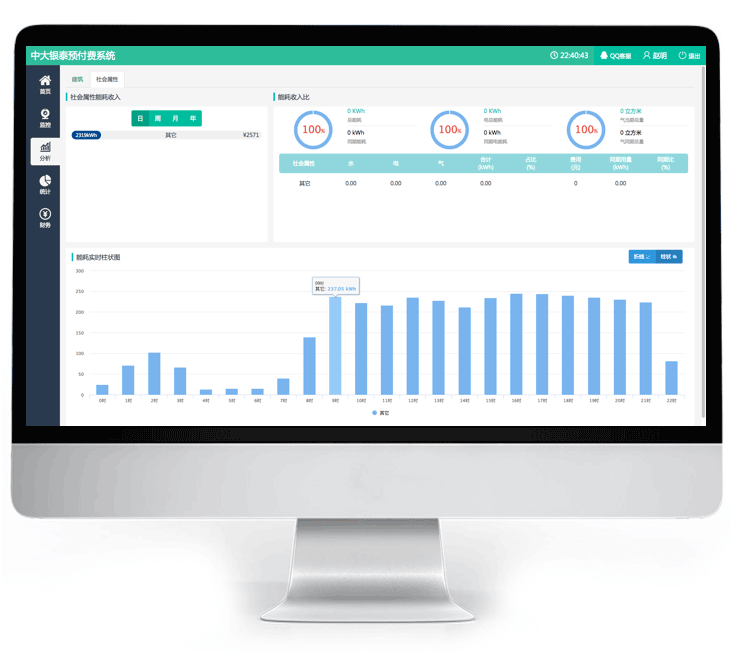
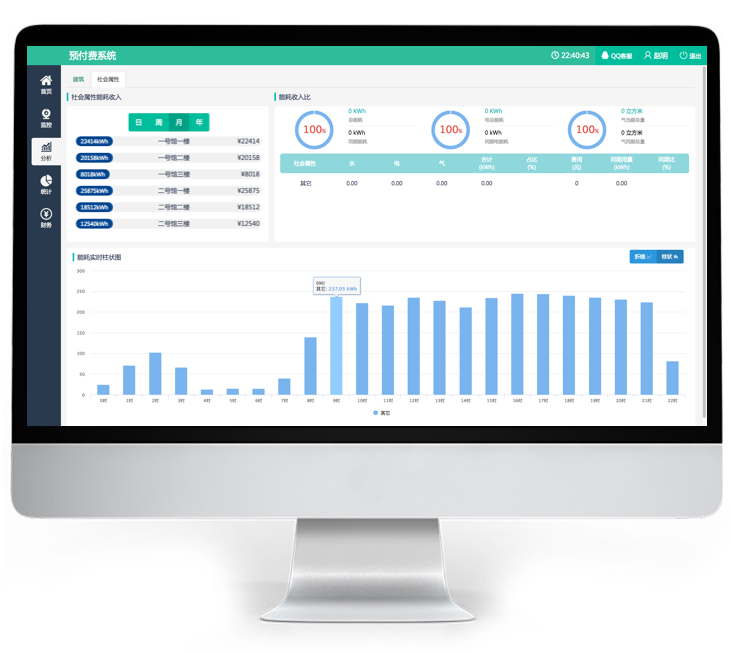
更换中大银泰相关图片

diff --git a/aboutus.html b/aboutus.html
@@ -97,7 +97,7 @@
                 <a href="index.html">首页</a>
                 <a href="product.html">产品</a>
                 <div class="scheme">方案
-                    <ul class="scheme-list" style="padding-top: 22px">
+                    <ul class="scheme-list">
                         <li><a href="application.html">应用实现</a></li>
                         <li><a href="safe.html">数据安全</a></li>
                         <li><a href="case.html">项目案例</a></li>
@@ -246,10 +246,10 @@
 <script type="text/javascript" src="http://api.map.baidu.com/api?key=3690f5facff0a96fc7ff291c20f532e0&v=1.0&services=true"></script>
 <script type="text/javascript">
     /* 
-                                                                                                                                                                                                                                                                                                            M博客百度地图API演示：查询地图经纬度
-                                                                                                                                                                                                                                                                                                             http://mblog.cc 
-                                                                                                                                                                                                                                                                                                             cody@mblog.cc
-                                                                                                                                                                                                                                                                                                            */
+                                                                                                                                                                                                                                                                                                                M博客百度地图API演示：查询地图经纬度
+                                                                                                                                                                                                                                                                                                                 http://mblog.cc 
+                                                                                                                                                                                                                                                                                                                 cody@mblog.cc
+                                                                                                                                                                                                                                                                                                                */
     function MblogDotccMap(keyword) {
         var map = new BMap.Map("map"); // 创建地图实例  
         var point = new BMap.Point(120.260785, 30.317253); // 创建点坐标  

diff --git a/case.html b/case.html
@@ -57,7 +57,7 @@
                 <a href="index.html">首页</a>
                 <a href="product.html">产品</a>
                 <div class="scheme curr">方案
-                    <ul class="scheme-list" style="padding-top: 22px">
+                    <ul class="scheme-list">
                         <li><a href="application.html">应用实现</a></li>
                         <li><a href="safe.html">数据安全</a></li>
                         <li><a href="case.html">项目案例</a></li>
@@ -204,12 +204,12 @@
     <div class="container text-center p30 bg-gray">
         <div class="m-0-a">
             <div class="inline-block">
-                <div><img src="img/case/rhctgjgc.png" alt="义务万豪酒店"></div>
-                <p>义务万豪酒店</p>
+                <div><img src="img/case/rhctgjgc.png" alt="义乌万豪酒店"></div>
+                <p>义乌万豪酒店</p>
             </div>
             <div class="inline-block">
-                <div><img src="img/case/ycxlgc.png" alt="义务中心医院"></div>
-                <p>义务中心医院</p>
+                <div><img src="img/case/ycxlgc.png" alt="义乌中心医院"></div>
+                <p>义乌中心医院</p>
             </div>
             <div class="inline-block">
                 <div><img src="img/case/ynxglldjd.png" alt="云南香格里拉大酒店"></div>

diff --git a/index.html b/index.html
@@ -65,7 +65,7 @@
                 <a class="curr" href="index.html">首页</a>
                 <a href="product.html">产品</a>
                 <div class="scheme">方案
-                    <ul class="scheme-list" style="padding-top: 22px">
+                    <ul class="scheme-list">
                         <li><a href="application.html">应用实现</a></li>
                         <li><a href="safe.html">数据安全</a></li>
                         <li><a href="case.html">项目案例</a></li>

diff --git a/product.html b/product.html
@@ -56,7 +56,7 @@
                 <a href="index.html">首页</a>
                 <a class="curr" href="product.html">产品</a>
                 <div class="scheme">方案
-                    <ul class="scheme-list" style="padding-top: 22px">
+                    <ul class="scheme-list">
                         <li><a href="application.html">应用实现</a></li>
                         <li><a href="safe.html">数据安全</a></li>
                         <li><a href="case.html">项目案例</a></li>

diff --git a/application.html b/application.html
@@ -56,7 +56,7 @@
                 <a href="index.html">首页</a>
                 <a href="product.html">产品</a>
                 <div class="scheme curr">方案
-                    <ul class="scheme-list" style="padding-top: 22px">
+                    <ul class="scheme-list">
                         <li><a href="application.html">应用实现</a></li>
                         <li><a href="safe.html">数据安全</a></li>
                         <li><a href="case.html">项目案例</a></li>

diff --git a/safe.html b/safe.html
@@ -57,7 +57,7 @@
                 <a href="index.html">首页</a>
                 <a href="product.html">产品</a>
                 <div class="scheme curr">方案
-                    <ul class="scheme-list" style="padding-top: 22px">
+                    <ul class="scheme-list">
                         <li><a href="application.html">应用实现</a></li>
                         <li><a href="safe.html">数据安全</a></li>
                         <li><a href="case.html">项目案例</a></li>

diff --git a/kj.html b/kj.html
@@ -158,7 +158,7 @@
                 <a href="index.html">首页</a>
                 <a href="product.html">产品</a>
                 <div class="scheme">方案
-                    <ul class="scheme-list" style="padding-top: 22px">
+                    <ul class="scheme-list">
                         <li><a href="application.html">应用实现</a></li>
                         <li><a href="safe.html">数据安全</a></li>
                         <li><a href="case.html">项目案例</a></li>

diff --git a/fangan.html b/fangan.html
@@ -54,7 +54,7 @@
                 <a href="index.html">首页</a>
                 <a href="product.html">产品</a>
                 <div class="scheme">方案
-                    <ul class="scheme-list" style="padding-top: 22px">
+                    <ul class="scheme-list">
                         <li><a href="application.html">应用实现</a></li>
                         <li><a href="safe.html">数据安全</a></li>
                         <li><a href="case.html">项目案例</a></li>

diff --git a/market.html b/market.html
@@ -69,7 +69,7 @@
                 <a href="index.html">首页</a>
                 <a href="product.html">产品</a>
                 <div class="scheme">方案
-                    <ul class="scheme-list" style="padding-top: 22px">
+                    <ul class="scheme-list">
                         <li><a href="application.html">应用实现</a></li>
                         <li><a href="safe.html">数据安全</a></li>
                         <li><a href="case.html">项目案例</a></li>

diff --git a/price.html b/price.html
@@ -62,7 +62,7 @@
                 <a href="index.html">首页</a>
                 <a href="product.html">产品</a>
                 <div class="scheme">方案
-                    <ul class="scheme-list" style="padding-top: 22px">
+                    <ul class="scheme-list">
                         <li><a href="application.html">应用实现</a></li>
                         <li><a href="safe.html">数据安全</a></li>
                         <li><a href="case.html">项目案例</a></li>

diff --git a/qudao.html b/qudao.html
@@ -64,7 +64,7 @@
                 <a href="index.html">首页</a>
                 <a href="product.html">产品</a>
                 <div class="scheme">方案
-                    <ul class="scheme-list" style="padding-top: 22px">
+                    <ul class="scheme-list">
                         <li><a href="application.html">应用实现</a></li>
                         <li><a href="safe.html">数据安全</a></li>
                         <li><a href="case.html">项目案例</a></li>

diff --git a/zft.html b/zft.html
@@ -69,7 +69,7 @@
                 <a href="index.html">首页</a>
                 <a href="product.html">产品</a>
                 <div class="scheme">方案
-                    <ul class="scheme-list" style="padding-top: 22px">
+                    <ul class="scheme-list">
                         <li><a href="application.html">应用实现</a></li>
                         <li><a href="safe.html">数据安全</a></li>
                         <li><a href="case.html">项目案例</a></li>
